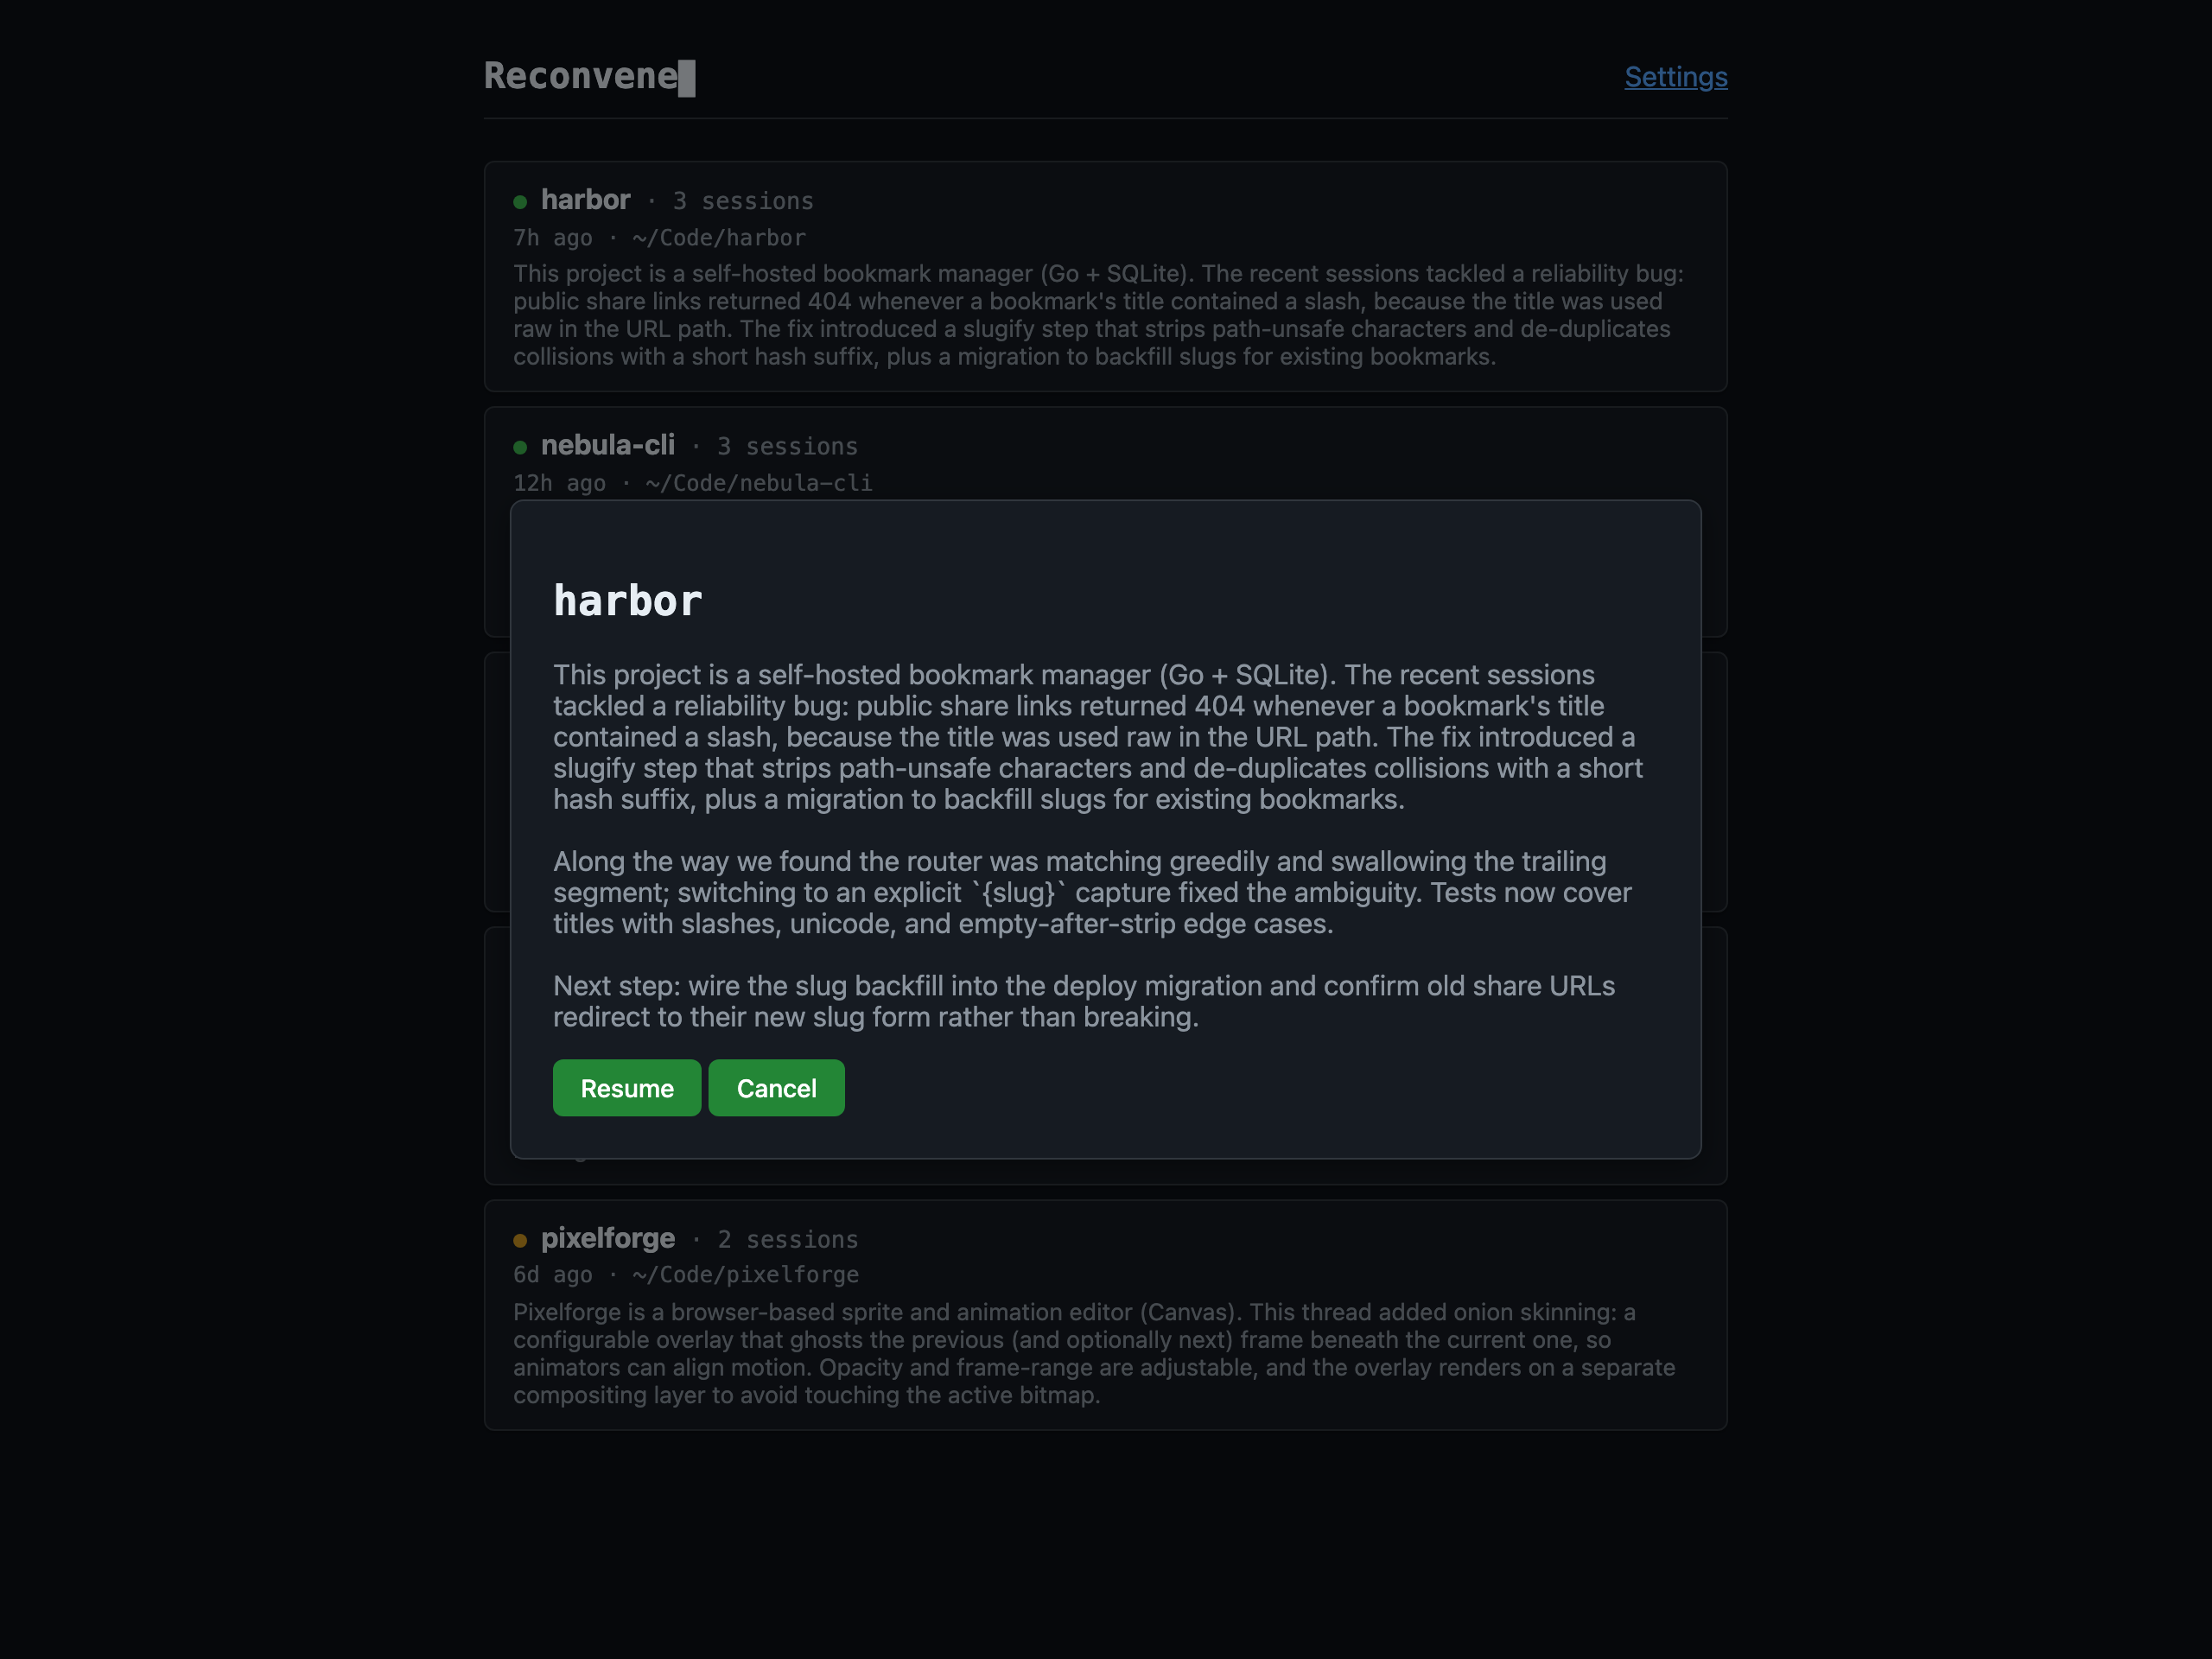
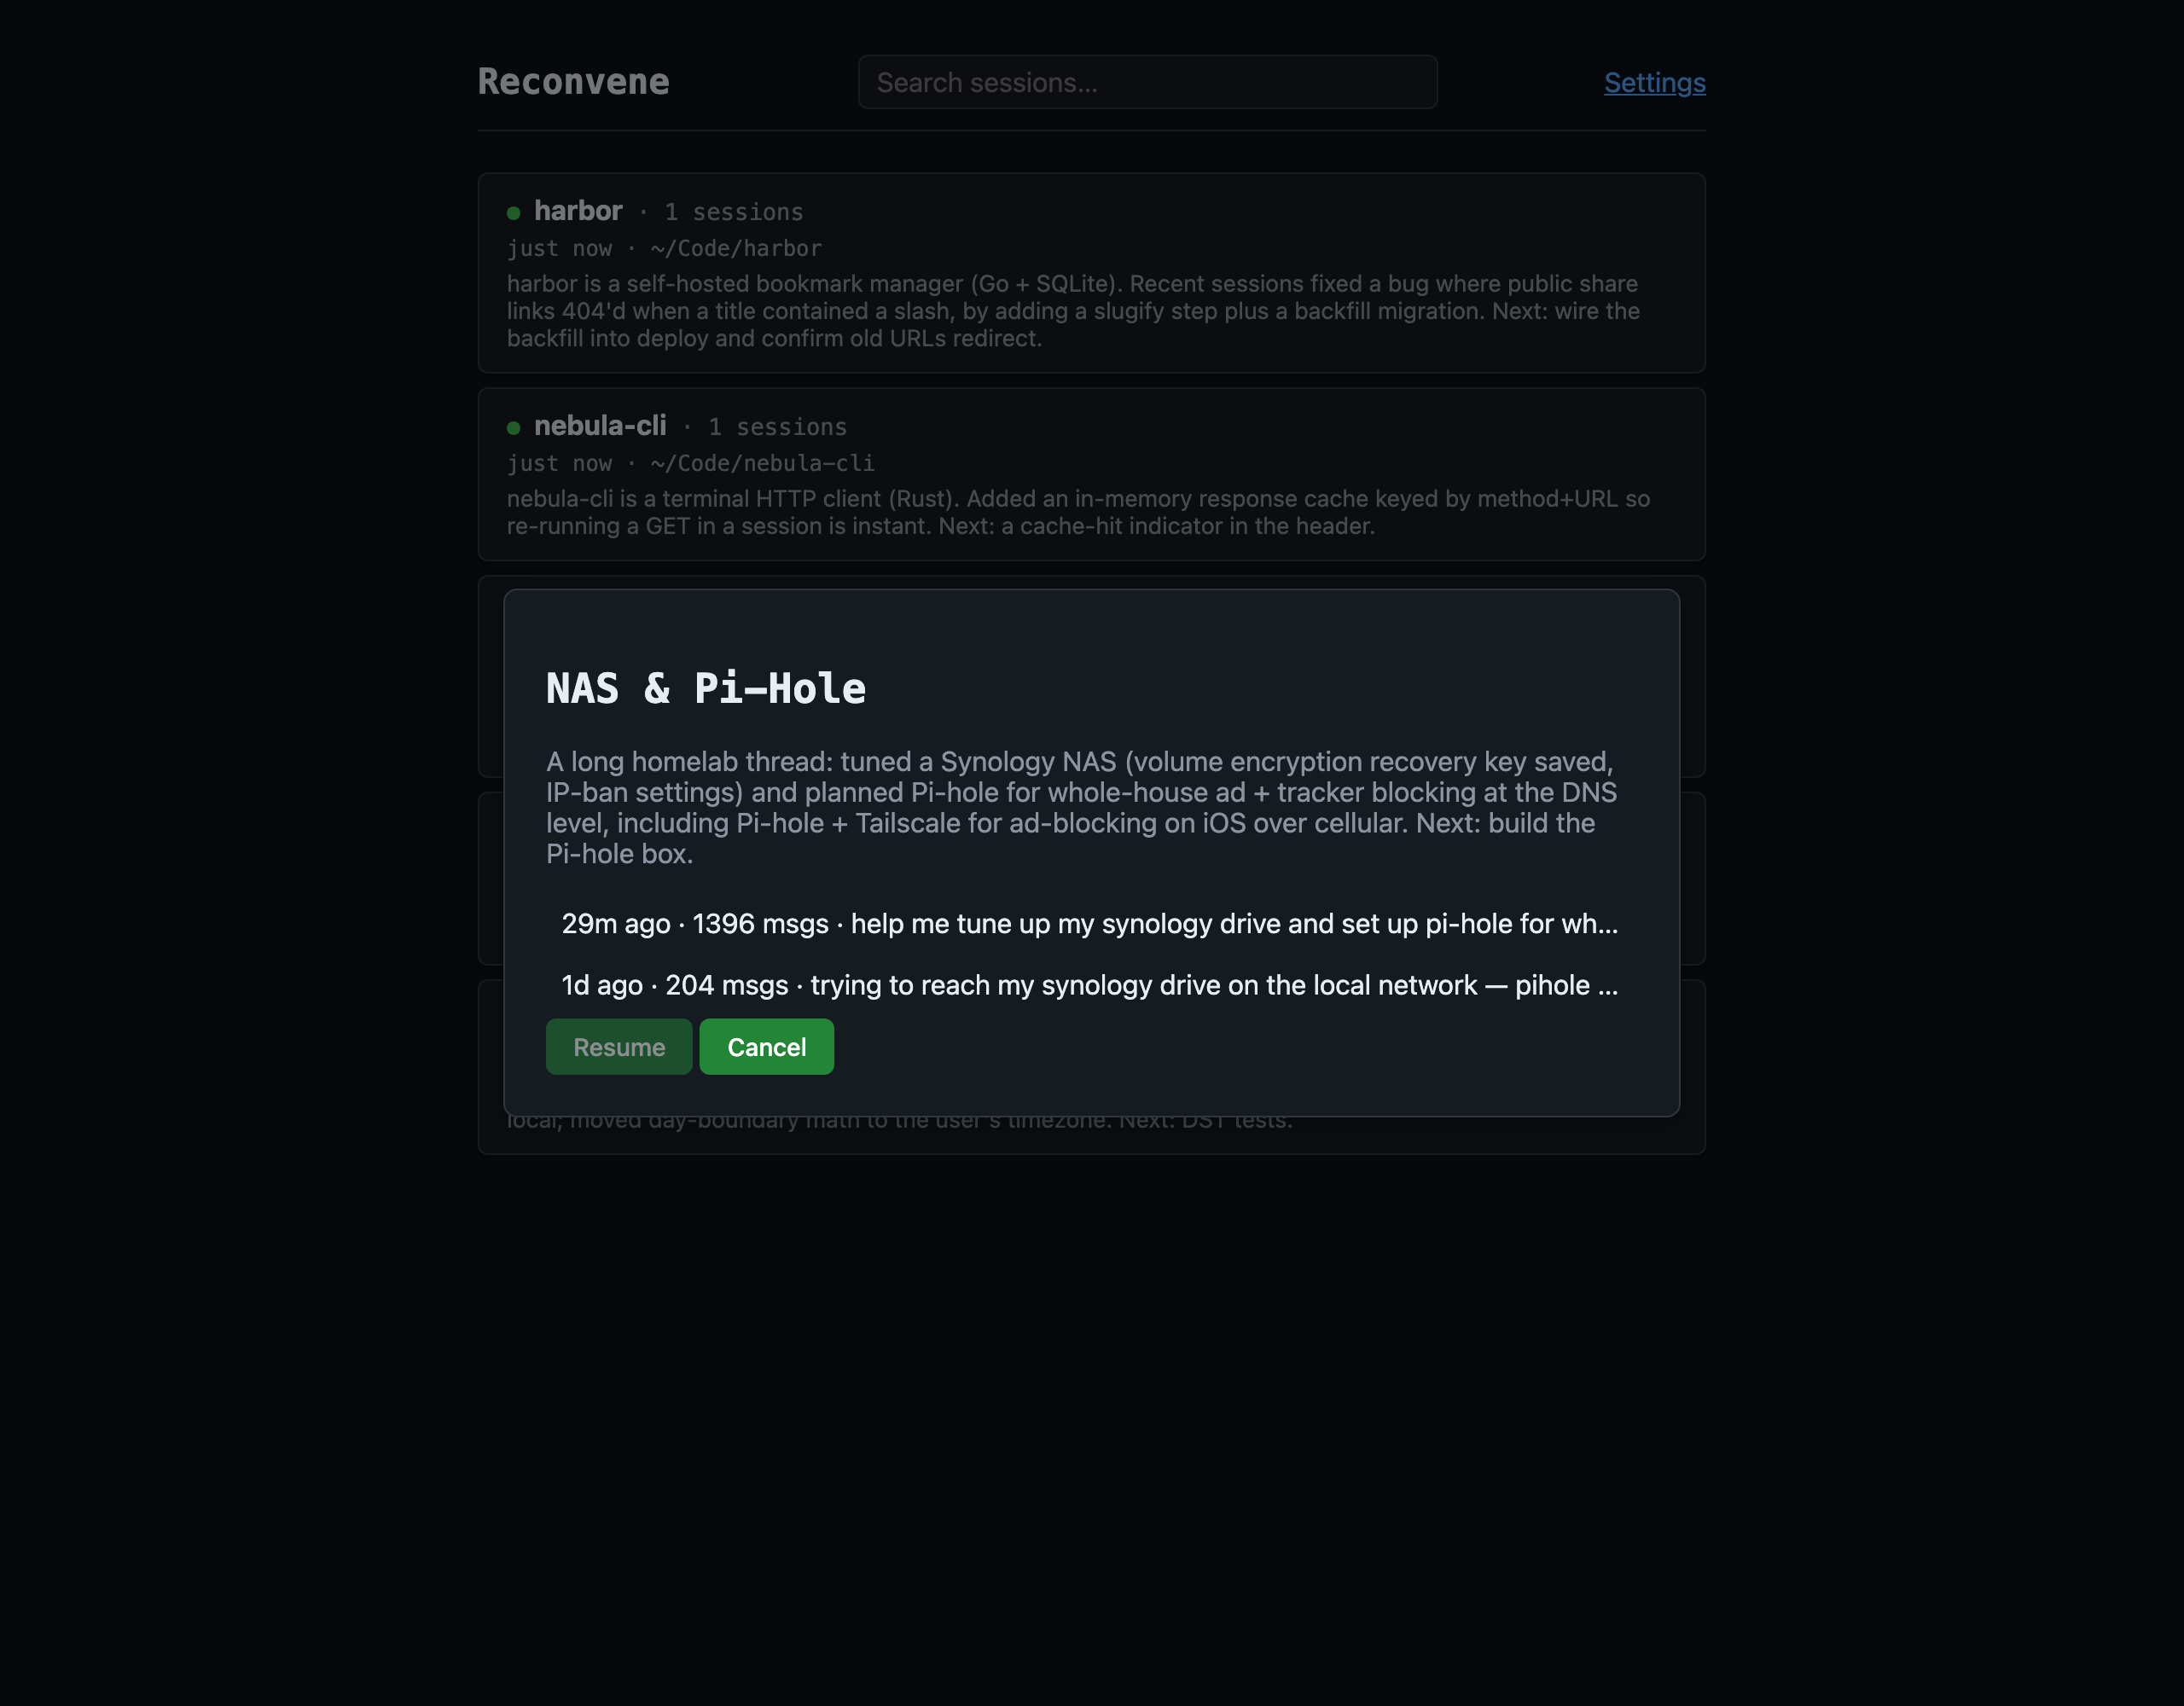
docs: refresh README screenshots for search, topics, and drill-in
Regenerate the demo shots (PII-free fake DB) to show the features added since
0.1.0: topic groups in the journal, full-text search with highlighting, the
resume modal's session list, and the TUI key-hint header. Adds a search shot.

diff --git a/README.md b/README.md
@@ -4,10 +4,11 @@ Resume your Claude Code sessions from a browser tab. Reads
 [ccrider](https://github.com/neilberkman/ccrider)'s session database, ranks your
 projects by recent activity, and lets you pick up where you left off.
 
-![The Reconvene journal — projects ranked by recent activity, each with a generated recap](assets/web-journal.png)
+![The Reconvene journal — projects and topic groups ranked by recent activity, each with a generated recap](assets/web-journal.png)
 
 Each project shows an AI-generated recap of your recent sessions, so you can tell at a
-glance what you were doing before you pick one to resume.
+glance what you were doing before you pick one to resume. Sessions launched from a bare
+directory like `~/Code` are clustered into named **topic groups** (the `topic` tags above).
 
 ## Requires
 
@@ -56,14 +57,17 @@ collected separately; hit **Organize into topics** (web) or `reconvene --organiz
 to have Claude cluster them into named topic groups (assignments are cached and
 never reshuffled).
 
-Pick a project in the web view and Reconvene shows the full recap before resuming:
+![Full-text search across every session, with the matching text highlighted](assets/web-search.png)
 
-![Resuming a project — the full recap and a Resume button](assets/web-resume.png)
+Open a project or a topic group and Reconvene shows the recap, then lets you pick exactly
+which session to resume:
 
-Prefer the terminal? The TUI is an fzf picker with the same recaps in a live preview pane,
-generated on demand for whichever project you highlight:
+![The resume modal — a topic group's recap plus its session list to choose from](assets/web-resume.png)
 
-![The Reconvene TUI — an fzf picker with a recap preview pane](assets/tui.png)
+Prefer the terminal? The TUI is an fzf picker (key hints along the top) with the same recaps
+in a live preview pane, `ctrl-f` to search and `ctrl-s` to drill into a project's sessions:
+
+![The Reconvene TUI — an fzf picker with key hints, topic groups, and a recap preview pane](assets/tui.png)
 
 First run has zero configuration — every project is classified automatically. Visit
 Settings (linked from the main page) to override classification for a specific project,